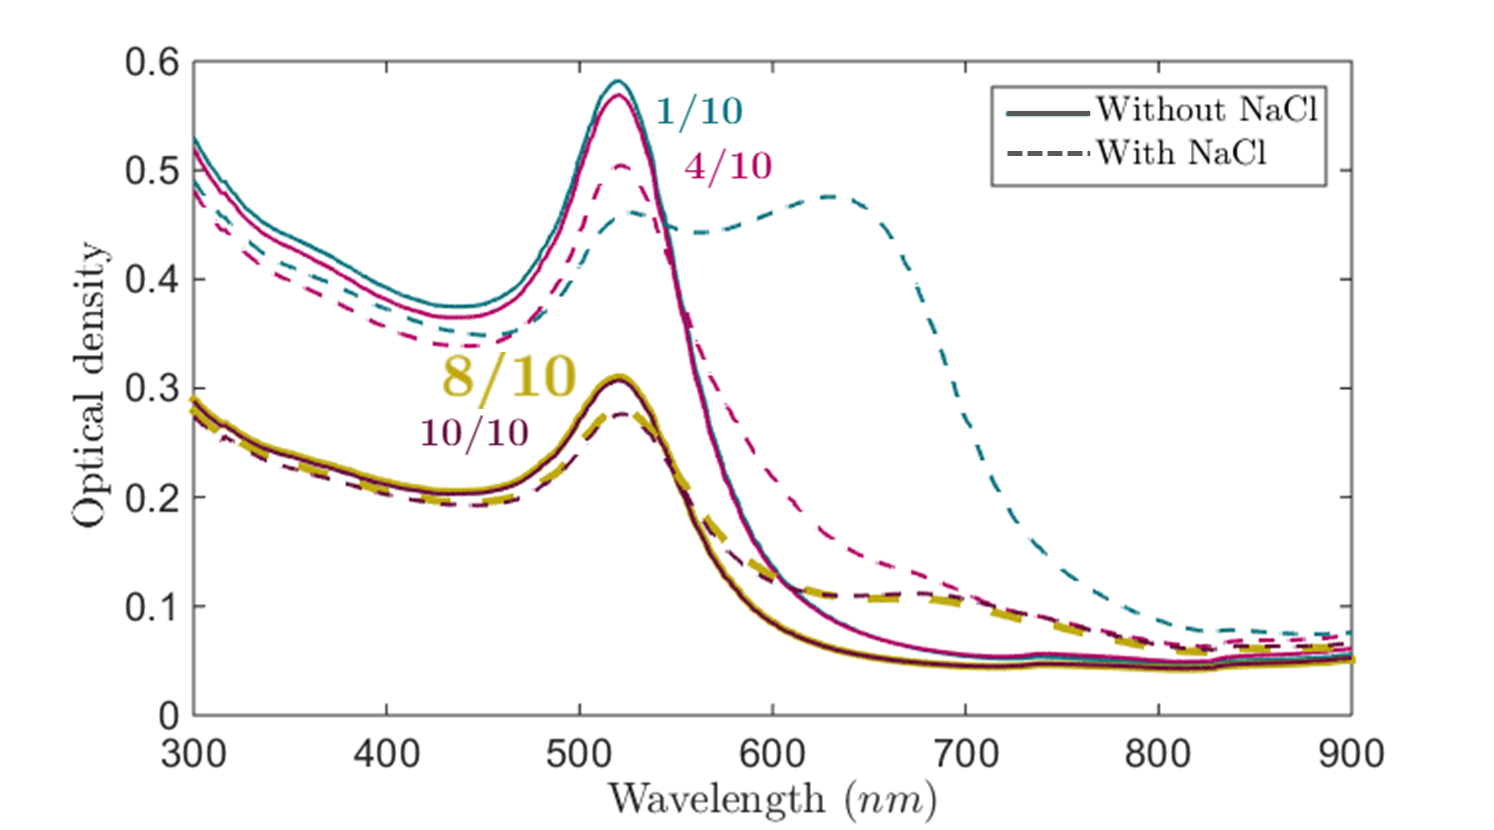
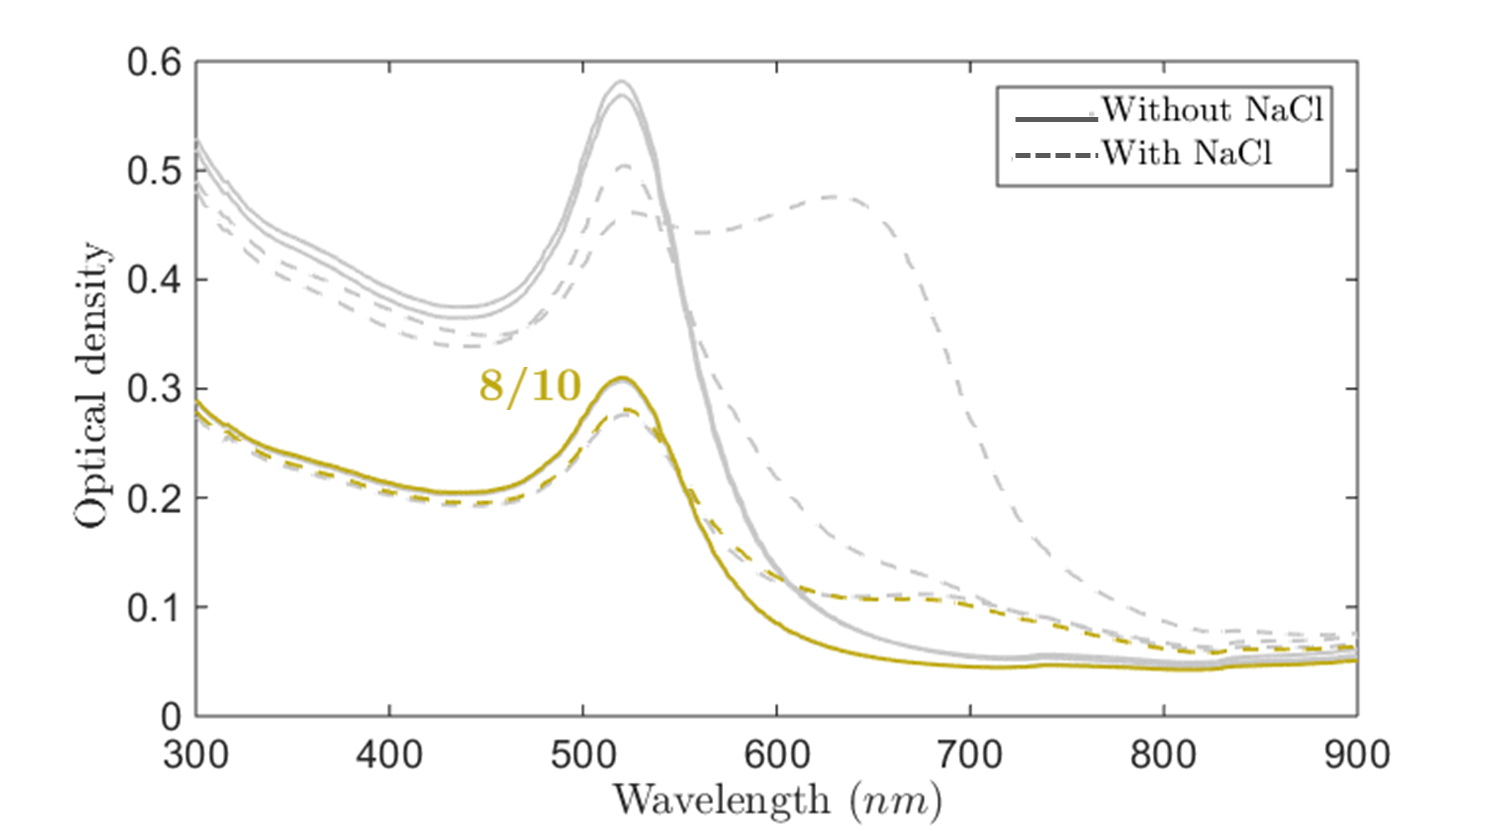
no message

diff --git a/Measurement_Results/UVVIS_read.m b/Measurement_Results/UVVIS_read.m
@@ -39,15 +39,16 @@ y17=met(8,:);
 y18=met(9,:);
 y19=met(10,:);
 y20=met(11,:);
-plot(x,y1,'LineWidth',1.5,'LineStyle','-','color',hex2rgb('0D747F'))
+plot(x,y1,'LineWidth',1.5,'LineStyle','-','color',hex2rgb('c7c7c7'))
 hold on
-plot(x,y4,'LineWidth',1.5,'LineStyle','-','color',hex2rgb('B20061'))
-plot(x,y8,'LineWidth',3,'LineStyle','-','color',hex2rgb('BFAA13'))
-plot(x,y10,'LineWidth',1.5,'LineStyle','-','color',hex2rgb('660A3C'))
-plot(x,y11,'LineWidth',1.5,'LineStyle','--','color',hex2rgb('0D747F'))
-plot(x,y14,'LineWidth',1.5,'LineStyle','--','color',hex2rgb('B20061'))
-plot(x,y18,'LineWidth',3,'LineStyle','--','color',hex2rgb('BFAA13'))
-plot(x,y20,'LineWidth',1.5,'LineStyle','--','color',hex2rgb('660A3C'))
+plot(x,y4,'LineWidth',1.5,'LineStyle','-','color',hex2rgb('c7c7c7'))
+plot(x,y10,'LineWidth',1.5,'LineStyle','-','color',hex2rgb('c7c7c7'))
+plot(x,y11,'LineWidth',1.5,'LineStyle','--','color',hex2rgb('c7c7c7'))
+plot(x,y14,'LineWidth',1.5,'LineStyle','--','color',hex2rgb('c7c7c7'))
+plot(x,y20,'LineWidth',1.5,'LineStyle','--','color',hex2rgb('c7c7c7'))
+plot(x,y8,'LineWidth',1.5,'LineStyle','-','color',hex2rgb('BFAA13'))
+plot(x,y18,'LineWidth',1.5,'LineStyle','--','color',hex2rgb('BFAA13'))
+
 
 xlabel('Wavelength ($nm$)')
 ylabel('Optical density')

diff --git a/Presentatie/main.tex b/Presentatie/main.tex
@@ -384,13 +384,13 @@ As. Bert De Roo, Matthias Vervaele, Stephanie Ser\'e
     \end{figure}
 \end{frame}
 
-\begin{frame}{GNPs of different sizes}
+\begin{frame}{GNP of different sizes}
 \begin{figure}[tb]
             		\centering
             		\includegraphics[width=12cm]{gfx/vis1.png}
         		\end{figure}
 \end{frame}
-\begin{frame}{15nm GNPs with 20k PEG for different $\frac{V_{GNP}}{V_{PEG}}$}
+\begin{frame}{15nm GNP with 20k PEG for different $\frac{V_{GNP}}{V_{PEG}}$}
       	\begin{overprint}
     		\only<1>{
         		\begin{figure}[tb]
@@ -560,13 +560,13 @@ Functionalisation $15$nm $20$k PEG
 \column{0.5\textwidth}
 \begin{itemize}
     \item Synthesis of GNP
-    \item Characterisation with different techniques
+    \item Characterisation
     \item Stabilization with neutral PEG
 \end{itemize}
 \column{0.5\textwidth}
 \begin{itemize}
     \item Stabilization with positively charged PEG
-    \item Radiosensitization
+    \item X-ray
     \item Analyse effect on DNA
 		\item Solve problem with DLS
 \end{itemize}
